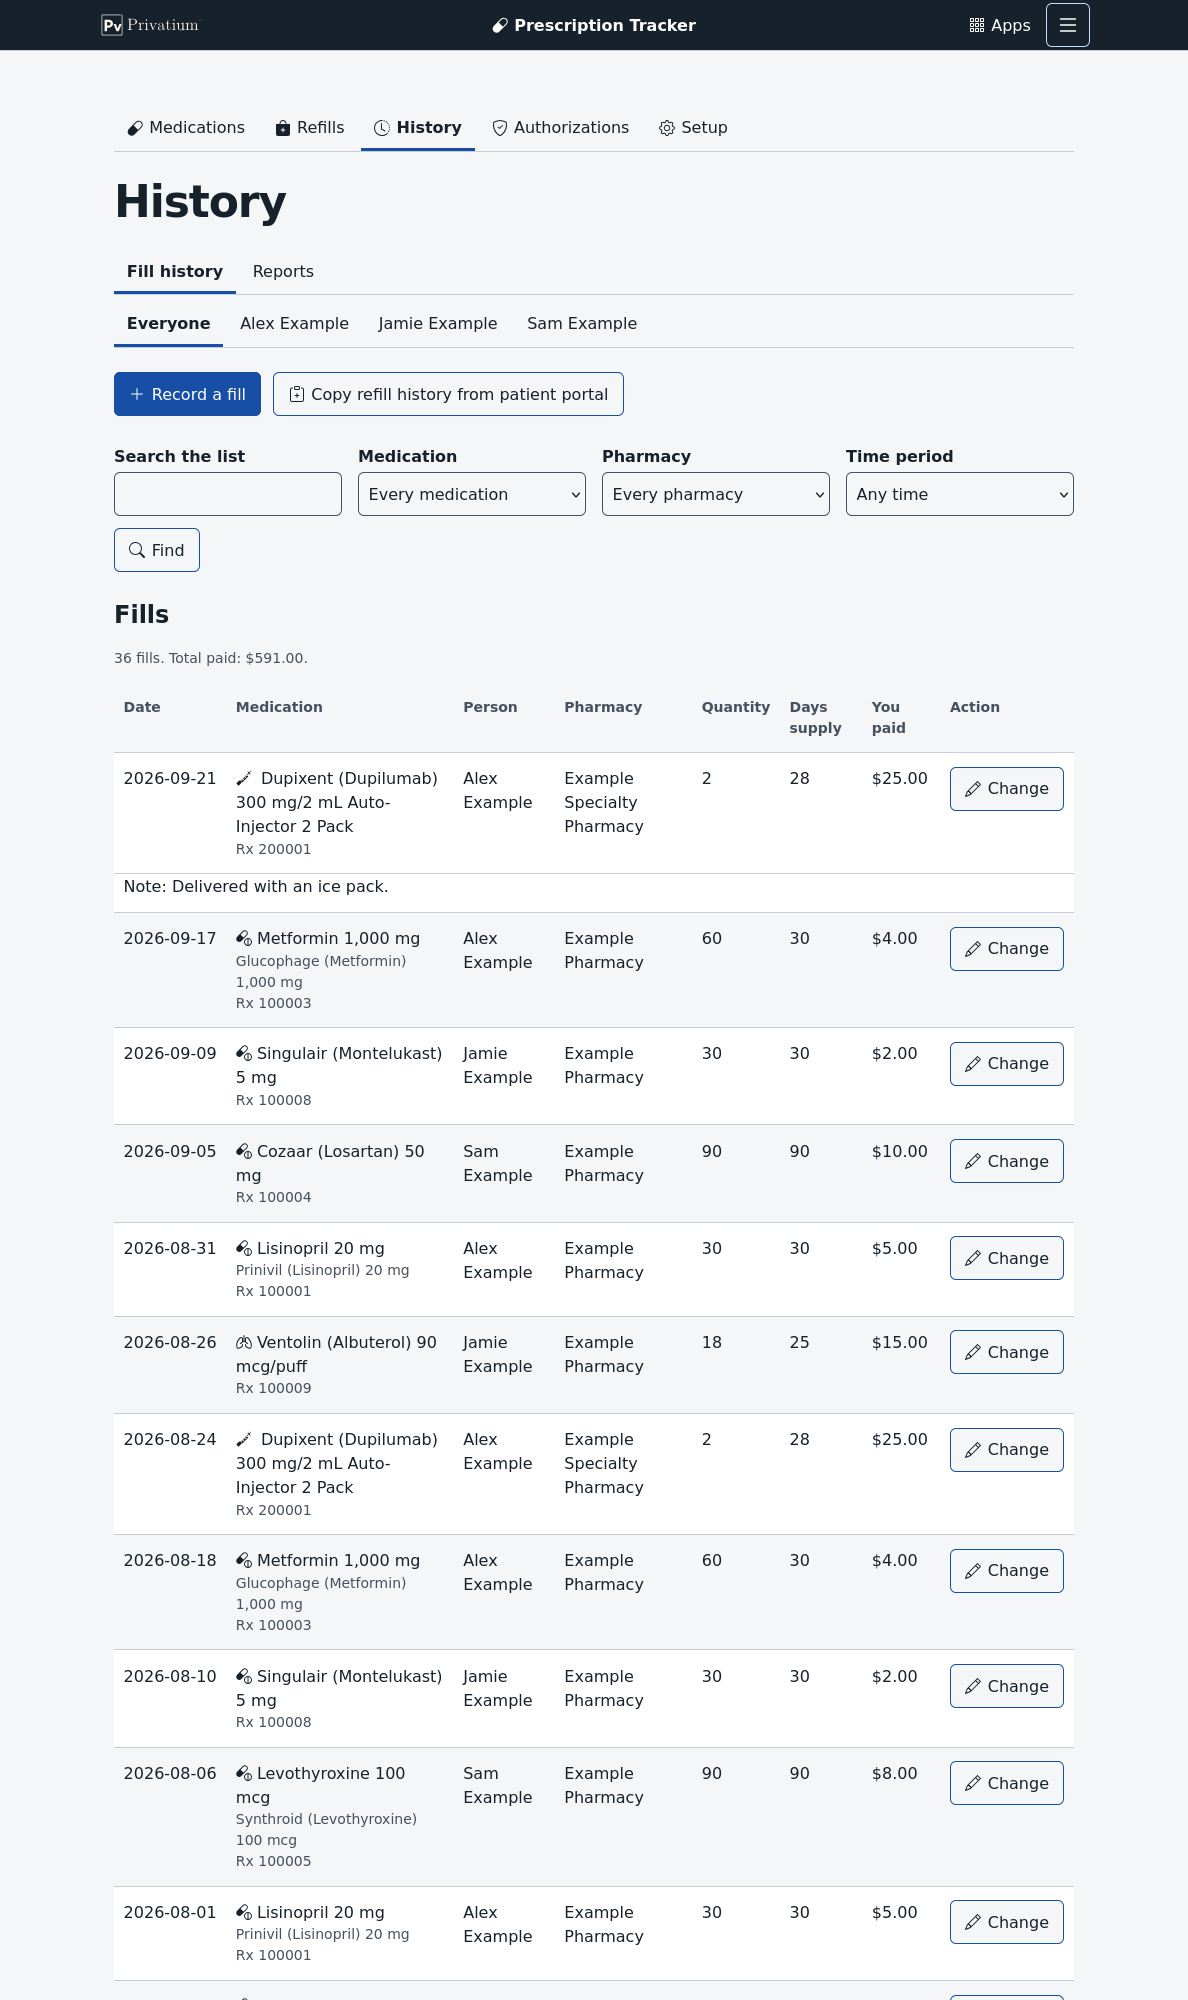
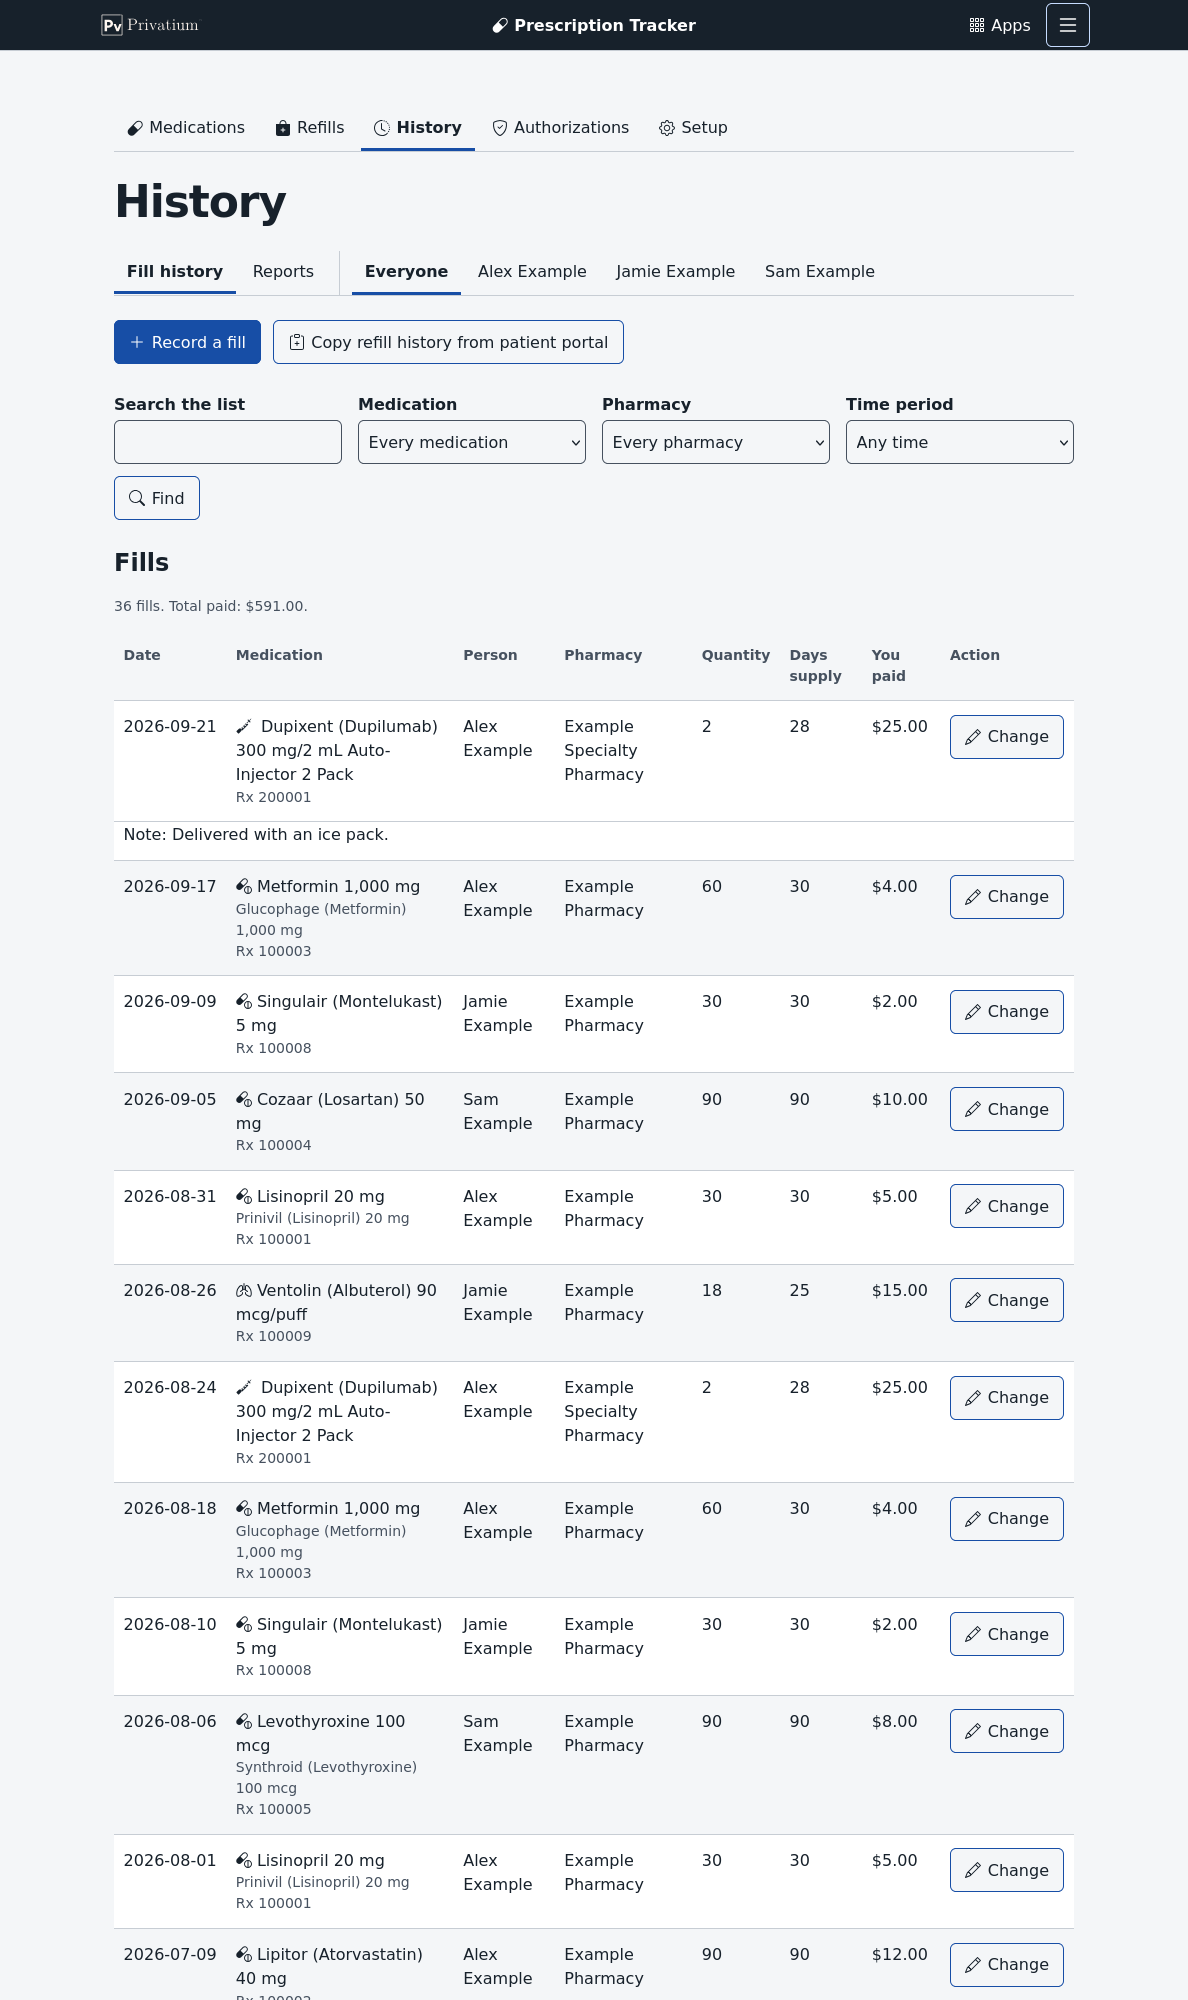
Put the History tabs and the person tabs on one row
The Fill history and Reports tabs and the person tabs now share one row, with a thin
line between the two groups, so the top of the History pages takes less room.

When the row is too narrow, the person tabs wrap under the History tabs. CSS cannot
tell when a row has wrapped, so person_tab.js checks whether the person tabs sit lower
than the History tabs, on each page and whenever the row changes size, and marks the
row so the line goes. Without scripts the line simply stays.

The two History pictures and their descriptions in the user guide show the new row.

diff --git a/apps/meds/static/person_tab.js b/apps/meds/static/person_tab.js
@@ -7,7 +7,8 @@ Last Modified: 2026-10-05
 Summary: Remembers the person tab that was chosen last, in the local storage of the
          browser, and opens a page that names no person on that tab, by following the
          tab's own link so the page changes the way every other link does. The value is
-         the id of a person, never a name.
+         the id of a person, never a name. It also marks a row of tabs whose second group
+         has wrapped under the first, so the line between the groups can go.
          TODO: Replace with Privatium person profiles when they exist; see
          https://github.com/gabrielmongefranco/privatium-app-meds/issues/10
 Notes: See README file for documentation and full license information.
@@ -90,8 +91,32 @@ with this program. If not, see <https://www.gnu.org/licenses/>.
     }
   }
 
+  // CSS cannot tell when a flex row wraps, so the row is marked here when its second
+  // group of tabs sits lower than the first, and the line between them is dropped.
+  function markWrapped(row) {
+    var groups = row.children;
+    if (groups.length < 2) { return; }
+    row.classList.toggle('meds-wrapped', groups[1].offsetTop > groups[0].offsetTop);
+  }
+
+  // One observer serves every row; a row that is swapped away is no longer observed.
+  var rowWatcher = window.ResizeObserver ? new ResizeObserver(function (entries) {
+    entries.forEach(function (entry) { markWrapped(entry.target); });
+  }) : null;
+
+  function watchRows(root) {
+    var rows = root.querySelectorAll ? root.querySelectorAll('.meds-tab-row:not([data-wrap-watched])') : [];
+    for (var index = 0; index < rows.length; index += 1) {
+      rows[index].setAttribute('data-wrap-watched', '');
+      markWrapped(rows[index]);
+      if (rowWatcher) { rowWatcher.observe(rows[index]); }
+    }
+  }
+
   // The frame fires this for the first page and for every page swapped in after it.
   document.addEventListener('htmx:load', function (event) {
-    openRemembered(event.detail && event.detail.elt ? event.detail.elt : document);
+    var root = event.detail && event.detail.elt ? event.detail.elt : document;
+    openRemembered(root);
+    watchRows(root);
   });
 }());

diff --git a/apps/meds/static/meds.css b/apps/meds/static/meds.css
@@ -143,8 +143,13 @@ details.meds-another > summary { flex-direction: column; align-items: flex-start
 main form textarea.meds-notes { display: block; width: 100%; max-width: 40rem; }
 .meds-notes-text { white-space: pre-line; }
 
-/* The History tabs sit above the person tabs, so they keep a little room below. */
-.meds-tabs { margin-bottom: .5rem; }
+/* The History tabs and the person tabs share one row, with a line between the two
+   groups. When the person tabs wrap under the History tabs, person_tab.js marks the
+   row and the line goes, since nothing stands beside it. */
+.meds-tab-row { display: flex; flex-wrap: wrap; align-items: stretch; margin: 0 0 1.5rem; border-bottom: 1px solid var(--pv-line); }
+.meds-tab-row .pv-subnav { margin: 0; border-bottom: 0; }
+.meds-tab-row > nav + nav { margin-left: .75rem; padding-left: .75rem; border-left: 1px solid var(--pv-line); }
+.meds-tab-row.meds-wrapped > nav + nav { margin-left: 0; padding-left: 0; border-left: 0; }
 /* The history filters: the search box and three drop-downs side by side, wrapping on a
    narrow screen. */
 main form.meds-history-filters { display: flex; flex-wrap: wrap; align-items: flex-end; gap: 0 1rem; margin: 0 0 1.5rem; }

diff --git a/docs/usage.md b/docs/usage.md
@@ -349,7 +349,7 @@ search box and filters, so you can switch tabs without setting them again.
 
 #### Find a fill
 
-![The Fill history tab of the History page. Under the tabs Fill history and Reports, and the person tabs Everyone, Alex Example, Jamie Example and Sam Example, there is a search box and drop-downs for medication, pharmacy and time period. Below them, 36 fills, total paid $591.00, and a table with the date, medicine, person, pharmacy, quantity, days supply, amount paid and a Change button. The note Delivered with an ice pack sits on its own line under its fill.](images/history.png)
+![The Fill history tab of the History page. One row of tabs holds Fill history and Reports, a thin dividing line, and the person tabs Everyone, Alex Example, Jamie Example and Sam Example. Below them is a search box and drop-downs for medication, pharmacy and time period. Below them, 36 fills, total paid $591.00, and a table with the date, medicine, person, pharmacy, quantity, days supply, amount paid and a Change button. The note Delivered with an ice pack sits on its own line under its fill.](images/history.png)
 
 Choose **History** to see every fill, newest first. To narrow the list:
 
@@ -371,7 +371,7 @@ on its own line under the fill.
 
 #### See what you paid each year
 
-![The Reports tab. A bar chart shows the total paid each year from 2023 to 2026. The 2026 bar is outlined and labeled 2026 so far. A dashed line marks the average of the full years, $144.33 a year. Below the chart, a table lists each year and person with the number of fills and the total paid, and a button opens the printable report in a new tab.](images/reports.png)
+![The Reports tab, with the same row of tabs and filters as Fill history. A bar chart shows the total paid each year from 2023 to 2026. The 2026 bar is outlined and labeled 2026 so far. A dashed line marks the average of the full years, $144.33 a year. Below the chart, a table lists each year and person with the number of fills and the total paid, and a button opens the printable report in a new tab.](images/reports.png)
 
 Choose **Reports** to see a bar chart of what you paid each year. The filters work here
 too. For example, choose one person and one medicine to see what that medicine cost

diff --git a/docs/architecture.md b/docs/architecture.md
@@ -87,7 +87,7 @@ never sees a fresh page. So every script follows these rules:
 |---|---|
 | `forms.js` | Shows the box for a new record when **-- Add new --** is chosen, and empties it when another choice is made. Shows and runs the **Print** button of the printable report. |
 | `filter.js` | Narrows the Medications page and the Fill history as you type, and opens the closed section when a match is inside it. A fill and its note row form one `tbody` and hide together. |
-| `person_tab.js` | Remembers the last person tab, by id, in local storage, and opens it by following the tab's own link |
+| `person_tab.js` | Remembers the last person tab, by id, in local storage, and opens it by following the tab's own link. On the History tabs, it drops the line between the two groups of tabs when the person tabs wrap underneath, which CSS cannot detect. |
 | `drug_references.js` | Asks RxTerms, then the openFDA NDC Directory, then RxNorm about a name. It is listed first because the search script uses it. |
 | `product_search.js` | The product search of every form: asks `/medications/search` for JSON, pages the results, falls back to the drug references, and suggests similar products while a new medication is typed |
 
